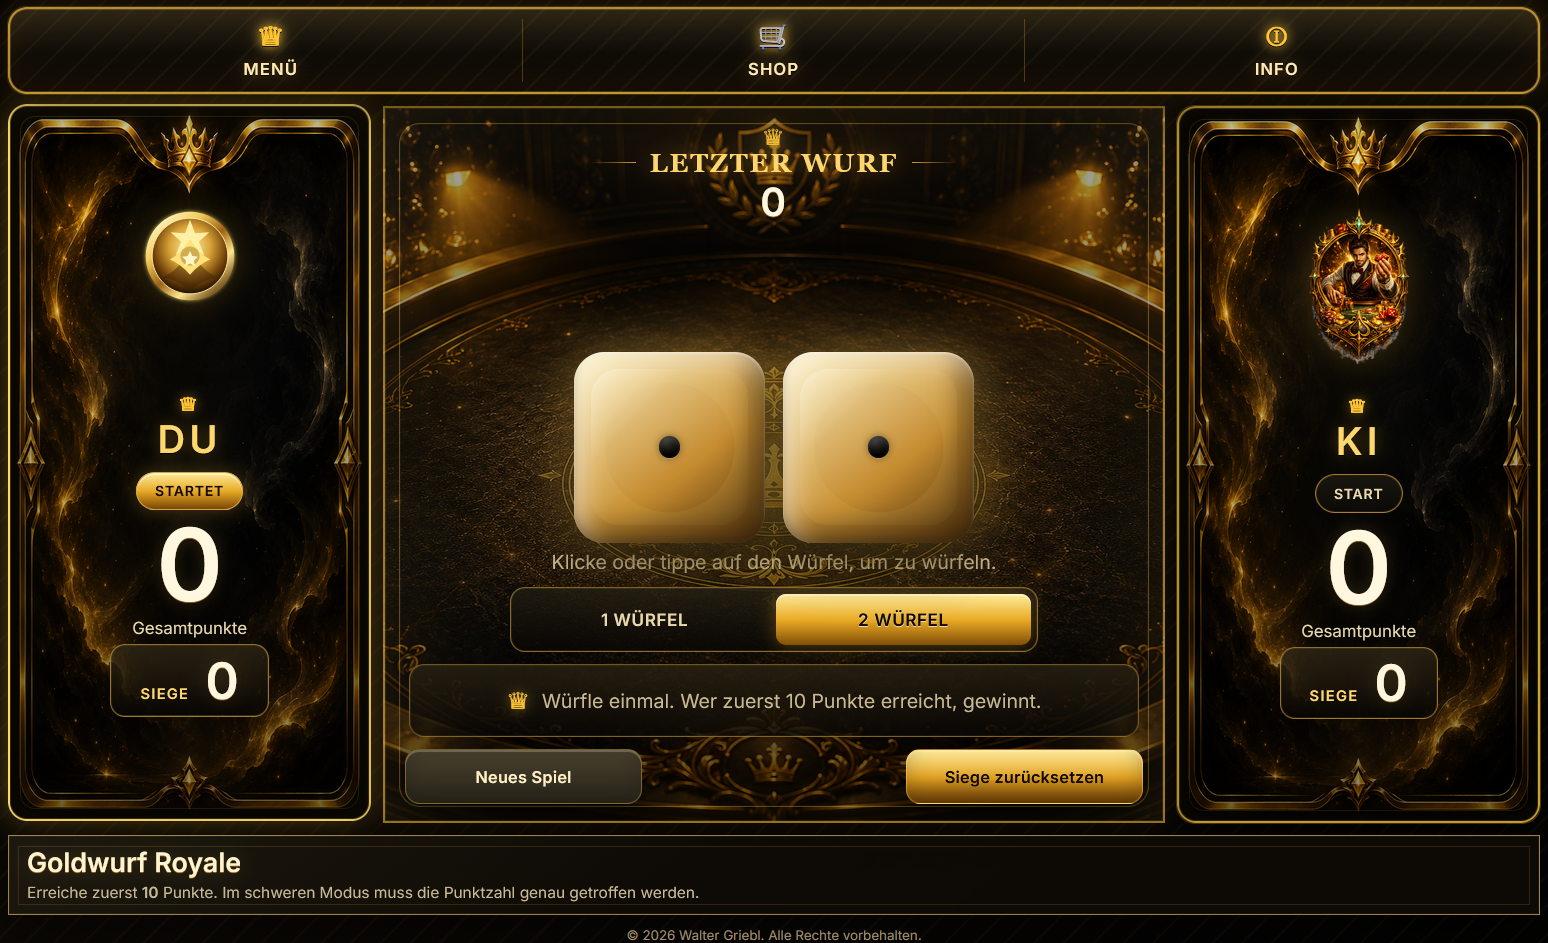
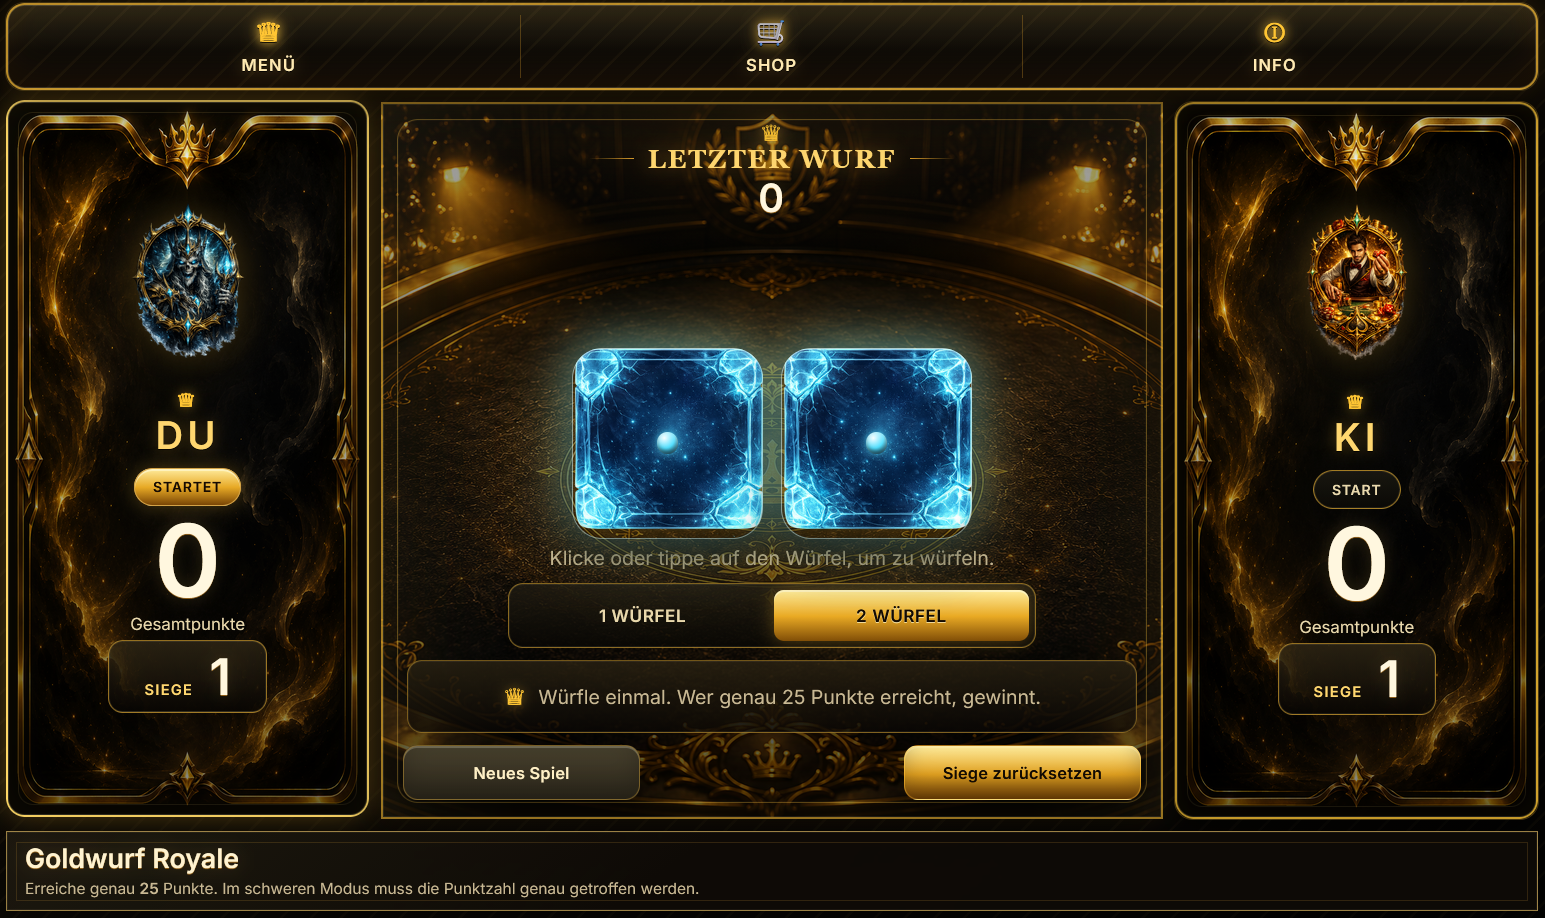
Update Webseite

Changed region(s): [[0.0, 0.0, 1.0, 1.0], [0.8078, 0.183, 0.8388, 0.244]]

diff --git a/styles.css b/styles.css
@@ -897,6 +897,12 @@ button {
   font-style: italic;
 }
 
+.info-legal-copy {
+  color: var(--muted);
+  font-size: 0.76rem;
+  text-align: center;
+}
+
 .info-content strong {
   color: var(--ink);
 }
@@ -2356,45 +2362,6 @@ body:not(.dark) #resetWinsButton {
   pointer-events: none;
 }
 
-.copyright {
-  grid-column: 1 / -1;
-  display: grid;
-  grid-template-columns: minmax(72px, 1fr) auto minmax(72px, 1fr);
-  align-items: center;
-  gap: 10px;
-  color: var(--muted);
-  font-size: 0.82rem;
-  text-align: center;
-}
-
-.legal-link {
-  min-width: 0;
-  border: 0;
-  padding: 0 4px;
-  background: transparent;
-  color: var(--gold);
-  cursor: pointer;
-  font: inherit;
-  font-weight: 800;
-  line-height: 1.2;
-  text-decoration: none;
-  text-shadow: 0 0 12px rgba(241, 200, 106, 0.18);
-}
-
-.legal-link:first-child {
-  justify-self: start;
-}
-
-.legal-link:last-child {
-  justify-self: end;
-}
-
-.legal-link:hover,
-.legal-link:focus-visible {
-  color: #fff0b8;
-  text-decoration: underline;
-}
-
 .legal-overlay {
   position: fixed;
   inset: 0;
@@ -3056,24 +3023,6 @@ body:not(.dark) #resetWinsButton {
     padding: 14px;
   }
 
-  .copyright {
-    font-size: 0.76rem;
-    grid-template-columns: minmax(72px, 0.72fr) minmax(104px, auto) minmax(72px, 0.72fr);
-    gap: 6px;
-    padding: 0 2px;
-    line-height: 1.15;
-  }
-
-  .legal-link {
-    padding: 2px 1px;
-    font-size: clamp(0.64rem, 2.8vw, 0.76rem);
-  }
-
-  .copyright-main,
-  .copyright-extra {
-    display: inline-block;
-  }
-
   .rules h1 {
     font-size: clamp(0.95rem, 4.4vw, 1.4rem);
     white-space: nowrap;
@@ -3548,10 +3497,6 @@ body:not(.dark) #resetWinsButton {
   }
 
   .rules {
-    display: none;
-  }
-
-  .copyright {
     display: none;
   }
 
@@ -4866,8 +4811,7 @@ body:not(.dark) .table {
     grid-template-areas:
       "topbar topbar topbar"
       "human table computer"
-      "rules rules rules"
-      "copyright copyright copyright";
+      "rules rules rules";
     align-items: stretch;
   }
 
@@ -4895,10 +4839,6 @@ body:not(.dark) .table {
 
   .rules {
     grid-area: rules;
-  }
-
-  .copyright {
-    grid-area: copyright;
   }
 
   .player {
@@ -5320,7 +5260,7 @@ body.gamble-mode .message {
 
   .table,
   .player {
-    min-height: clamp(520px, calc(100vh - 385px), 620px);
+    min-height: clamp(540px, calc(100vh - 365px), 640px);
   }
 
   .table {

diff --git a/index.html b/index.html
@@ -252,11 +252,11 @@
                   <details class="info-section">
                     <summary>Rechtliches</summary>
                     <div class="info-section-body">
-                      <p>Datenschutz und Impressum öffnen sich in einem eigenen Fenster.</p>
                       <div class="info-legal-actions">
                         <button id="infoImpressumButton" type="button">Impressum</button>
                         <button id="infoPrivacyButton" type="button">Datenschutz</button>
                       </div>
+                      <p class="info-legal-copy">© 2026 Walter Griebl. Alle Rechte vorbehalten.</p>
                     </div>
                   </details>
                 </div>
@@ -444,11 +444,6 @@
         <p class="combo-rules-text">Wähle Orakel-Zahlen. Vollständig getroffene Zahlen gewinnen.</p>
       </section>
 
-      <footer class="copyright">
-        <button class="legal-link" id="impressumLink" type="button">Impressum</button>
-        <span><span class="copyright-main">© 2026 Walter Griebl.</span> <span class="copyright-extra">Alle Rechte vorbehalten.</span></span>
-        <button class="legal-link" id="privacyLink" type="button">Datenschutz</button>
-      </footer>
     </main>
 
     <div class="legal-overlay" id="legalOverlay" hidden>

diff --git a/script.js b/script.js
@@ -642,8 +642,6 @@ const infoTrigger = document.querySelector("#infoTrigger");
 const appVersion = document.querySelector("#appVersion");
 const infoImpressumButton = document.querySelector("#infoImpressumButton");
 const infoPrivacyButton = document.querySelector("#infoPrivacyButton");
-const impressumLink = document.querySelector("#impressumLink");
-const privacyLink = document.querySelector("#privacyLink");
 const legalOverlay = document.querySelector("#legalOverlay");
 const legalDialog = document.querySelector(".legal-dialog");
 const legalTitle = document.querySelector("#legalTitle");
@@ -3322,14 +3320,6 @@ infoTrigger?.addEventListener("click", (event) => {
 });
 infoShell?.addEventListener("click", (event) => {
   event.stopPropagation();
-});
-impressumLink?.addEventListener("click", () => {
-  playClickSound();
-  openLegalDialog("impressum");
-});
-privacyLink?.addEventListener("click", () => {
-  playClickSound();
-  openLegalDialog("privacy");
 });
 infoImpressumButton?.addEventListener("click", () => {
   playClickSound();

diff --git a/README.md b/README.md
@@ -23,6 +23,9 @@ Spiele alleine gegen die KI oder lokal zu zweit am selben Gerät.
 - Würfel-Skins mit Bild-Assets
 - Jukebox mit freischaltbaren Hintergrundsounds
 - optimierte Shop-Karten für Avatar-Skins, Würfel-Skins und Jukebox
+- sauber gegliederter Info-Bereich mit Unterkategorien
+- Impressum und Datenschutz als Popups im Info-Bereich
+- vorbereiteter Werbe-Hinweis als freiwillige Unterstützung
 - Soundeffekte und optionale Hintergrundmusik
 - Hell-/Dunkelmodus
 - gespeicherte Einstellungen, Spielernamen, Siege, Gold, Avatar, Würfel-Skins, Sounds und Shop-Freischaltungen
